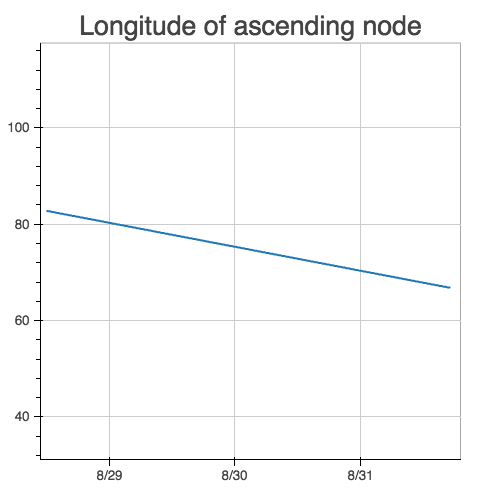
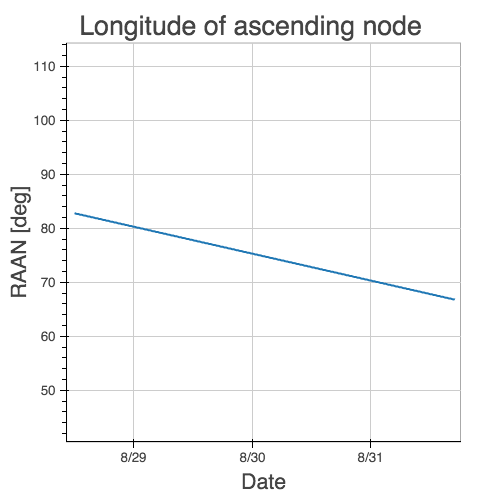
Add missing figure labels and fix typos.

diff --git a/papers/helge_eichhorn/eichhorn.rst b/papers/helge_eichhorn/eichhorn.rst
@@ -39,11 +39,11 @@ For example this year the Intel Fortran compiler achieved full support of the Fo
 
 .. [#] Many routines were not written with thread-safety and re-entrancy in mind and can therefore not be used in parallel codes.
 
-Due to these reasons Fortran-based tools and libraries have been generally supplanted with programming environments with better usability such as MATLAB.
+Due to these reasons Fortran-based tools and libraries have been generally used together with programming environments with better usability such as MATLAB.
 A common approach for developing mission design software at ESOC is prototyping and implementing downstream processes such as visualization in MATLAB and then later porting performance-intensive parts or the whole system to Fortran77.
 The results are added complexity through the use of the MEX-interface for integrating Fortran and MATLAB, duplicated effort for porting, and still a low-level of abstraction because the system design is constrained by Fortran's limitations.
 
-Because of the aforementioned problems some organizations explore possibilities to replace Fortran for future developments.
+Because of the aforementioned problems some organizations explore possibilities to replace Fortran for future development.
 The French space agency CNES (Centre Nationale D'Études Spatiale) for instance uses the Java-based Orekit library [Ore15]_ for its flight dynamics systems.
 
 In this paper we show why Python and the scientific Python ecosystem are a viable choice for the next generation of space mission design software and present the Plyades library.
@@ -85,7 +85,7 @@ We developed a domain model based on the following entities which are part of ev
 The Body Class
 ~~~~~~~~~~~~~~
 
-The Body class is a simple helper class that holds physical constants and other properties of celestial bodies such as planets and moon.
+The Body class is a simple helper class that holds physical constants and other properties of celestial bodies such as planets and moons.
 These include
 
 * the name of the body,
@@ -104,14 +104,14 @@ To define the state of a spacecraft in space-time we need the following informat
 
 * the position vector (:math:`\vec{r} \in \mathbf{r^3}`),
 * the velocity vector (:math:`\vec{v} \in \mathbf{r^3}`),
-* the corresponding epoch,
+* the corresponding moment in time, the so-called epoch,
 * the reference frame in which the vectors are defined,
 * the central body which also defines the origin of the coordinate system,
 * and additional spacecraft status parameters such as mass.
 
 While the information could certainly be stored in a single Numpy-array an object-oriented programming (OOP) approach offers advantages.
 Since all necessary data can be encapsulated in the object most orbital characteristics can be calculated by calling niladic or monadic instance methods.
-Keeping the number of parameters within the application programming interface (API) very small, as recommended by Robert C. Martin [RCM08]_, improves usability, e.g. the user is not required to know the calling sequence.
+Keeping the number of parameters within the application programming interface (API) very small, as recommended by Robert C. Martin [RCM08]_, improves usability, e.g. the user is not required to know the order of the function parameters.
 OOP also offers the opportunity to integrate the ``State`` class with the Python object model and the Jupyter notebook to provide rich human-friendly representations.
 
 State vectors also provide methods for backwards and forwards propagation.
@@ -133,7 +133,7 @@ Exemplary Usage
 In this example we use the Plyades library to conduct an analysis of the orbit of the International Space Station (ISS) [#]_.
 We obtain the inital state data on August 28, 2015, 12:00h from NASA realtime trajectory data [NAS15]_ and  use it to instantiate a Plyades ``State`` object as shown below.
 
-.. [#] A Jupyter Notebook with this analysis can be obtained from `Github <https://github.com/helgee/euroscipy-2015>`_.
+.. [#] A Jupyter notebook with this analysis can be obtained from `Github <https://github.com/helgee/euroscipy-2015>`_.
 
 .. code-block:: python
 
@@ -153,7 +153,7 @@ We obtain the inital state data on August 28, 2015, 12:00h from NASA realtime tr
 
     iss = plyades.State(iss_r, iss_v, iss_t, frame, body)
 
-The position (``iss_r``) and velocity (``iss_v``) vectors use the functionality units from the Astropy package [ASP13]_ while the timestamp (``iss_t``) is an Astropy ``Time`` object.
+The position (``iss_r``) and velocity (``iss_v``) vectors use the units functionality from the Astropy package [ASP13]_ while the timestamp (``iss_t``) is an Astropy ``Time`` object.
 The constant ``EARTH`` from the ``plyades.bodies`` module is a ``Body`` object and provides Earth's planetary constants.
 
 The resulting ``State`` object contains all data necessary to describe the current orbit of the spacecraft.
@@ -193,7 +193,7 @@ By calling ``plot3d`` we receive a three-dimensional visualization of the full o
 
     A three-dimensional visualization of the orbit based on Matplotlib. :label:`3d`
 
-We can achieve an equal result, apart from numerical errors, by numerically integrating Newton's equation:
+We can achieve a similar result, apart from numerical errors, by numerically integrating Newton's equation:
 
 .. math::
     :label: newton 
